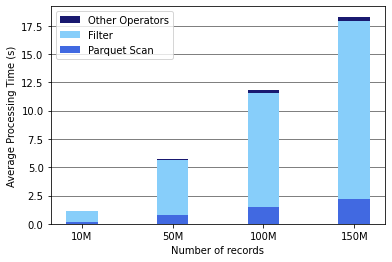
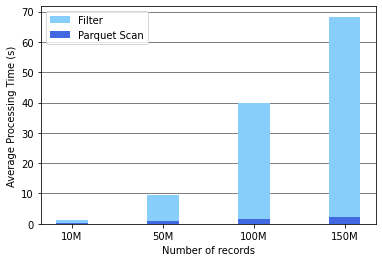
Updated readmes

diff --git a/usecases/regex-filter/README.md b/usecases/regex-filter/README.md
@@ -1,26 +1,28 @@
 # Usecase: Regular Expression Filter
 
-In this usecase, the evaluation of a regular expression filter is offloaded to FPGA.
+In this usecase, the evaluation of a regular expression filter is offloaded to an FPGA on an AWS F1 instance.
 
 > :warning: This usecase is currently a work in progress. Content may be incomplete and/or subject to change.
 
 ## Background
 
 A SQL query, which includes a regular expression, is run on the 
-[Chicago Taxi Dataset](https://data.cityofchicago.org/Transportation/Taxi-Trips/wrvz-psew). 
+[Chicago taxi dataset](https://data.cityofchicago.org/Transportation/Taxi-Trips/wrvz-psew). 
 The dataset is first converted to parquet such that it can be efficiently read by Dremio. 
 The dataset contains 23 columns, but in this usecase we are only interested in the `Trip_Seconds` 
 and `Company` columns.
 
-TODO: Check these types
-
-`Trip_Seconds` contains the duration of a given taxi trip in 32-bit integer values. The `Company` column 
+`Trip_Seconds` contains the duration of a given taxi trip in integer values. The `Company` column 
 contains the name of the company that carried out the trip as an UTF8 string.
 
-Lets say we are interested in knowing the total duration of all taxi trips as carried out by a company 
-whose name consists of two separate words. In that case we could construct the following SQL query:
+Let's say we are interested in knowing the total duration of all taxi trips as carried out by a company 
+whose name matches a specific regular expression. In that case we could construct the following SQL query:
 
-    SELECT SUM(Trip_Seconds) FROM "taxi-trips.parquet" WHERE REGEXP_LIKE(Company, '\b[a-zA-Z]+\s[a-zA-Z]+\b')
+    SELECT SUM(Trip_Seconds) FROM "taxi-trips.parquet" WHERE REGEXP_LIKE(Company, 'YOUR REGEX')
+
+As an example, we consider the following regular expression
+
+    .*[tT][eE][rR][aA][tT][iI][dD][eE][ \t\n]+[dD][oO][lL][pP][hH][iI][nN][ \t\n]+([mM][eE])+[pP][oO][wW][eE][rR].*
 
 Letting the Sabot engine perform it's planning phases for this query, the operators of the physical plan are
 given by the figure below.
@@ -36,11 +38,80 @@ The filter operator is where this regular expression matching takes place. This 
             "\b[a-zA-Z]+\s[a-zA-Z]+\b"
         ],
         type = "BOOLEAN",
-        digest = "REGEXP_LIKE($1, '\b[a-zA-Z]+\s[a-zA-Z]+\b')"
+        digest = "REGEXP_LIKE($1, '.*[tT][eE][rR][aA][tT][iI][dD][eE][ \t\n]+[dD][oO][lL][pP][hH][iI][nN][ \t\n]+([mM][eE])+[pP][oO][wW][eE][rR].*')"
     }
+
+Such a regular expression filter is quite costly to evaluate on a CPU and can quickly become the bottleneck of the 
+evaluation of the entire query. This can be seen in the figure below, in which the average processing time of these
+operators is analyzed for the Chicago taxi dataset with a varying amount of records. Only the processing time of the
+filter and parquet scan operators is significant enough to show up in the figure.
 
 ![Vanilla Dremio](vanilla-dremio.png)
 
 ## Dremio Accelerated Setup
 
+In order to perform the evaluation of the filter on an FPGA, a rule is added to the new *FPGA Acceleration Planning* phase
+of the Sabot planner. This rule matches all filters in the physical plan and substitutes them by our Fletcher filter operator.
+All initialization parameters of this Fletcher operator can be obtained from the original filter, since all underlying data should
+be the same; the difference is in the way the filter is evaluated.
+
+    public class FletcherFilterPrule extends RelOptRule {
+      public static final RelOptRule INSTANCE = new FletcherFilterPrule();
+    
+      // Match on any filter prel
+      private FletcherFilterPrule() {
+        super(RelOptHelper.any(FilterPrel.class), "FletcherFilterPrule");
+      }
+    
+      @Override
+      public void onMatch(RelOptRuleCall call) {
+        final FilterPrel  filter = (FilterPrel) call.rel(0);
+        call.transformTo(new FletcherFilterPrel(
+          filter.getCluster(),
+          filter.getInput().getTraitSet(),
+          filter.getInput(),
+          filter.getCondition()
+        ));
+      }
+
+    }
+
+With this rule, it can be seen that the filter operator is substituted for the Fletcher filter operator at the end of 
+the *FPGA Acceleration Planning* phase.
+
+![Filter Operators](filter-operators.png)
+![Filter Operators](fpga-operators.png)
+
+In theory, an FPGA can process regular expression a lot faster than any CPU implementation. A naive comparison can be
+seen in the figure below. This figure does however not tell the complete story.
+
+![Filter Comparison](filter-comparison.png)
+
+The major difference is that FPGAs prefer to work on large record batches, minimizing the overhead related to setting up memory
+transfers and maximizing the time spent processing the data. On the other hand, big data frameworks tend to keep their
+record batches small such that processing can be parallelized easier when working on a cluster.
+
+In the case of Dremio, the default record batch size of a narrow batch (batches with less than 100 fields, such as in 
+our example) is set to 4 095 records. This batch size can be increased, but the maximum value is limited to 64 000 records.
+For now, this value is therefore increased manually to 64 000 records. 
+
+In a future version, the `FletcherFilterPrule` in the *FPGA Acceleration Planning* phase will schedule additional 
+operators in front of and after the Fletcher operator, which increase and decrease the record batch sizes respectively.
+In this way, the framework maintains its original scalability while at the same time enabling FPGA accelerators to process
+the record batches more efficiently.
+
 ## Results
+
+TODO: remark about AWS DMA
+
+![AWS DMA](dma.png)
+
+Setting the input batch size for the FPGA regex kernel to 64 000, the kernel processes the batch in 0.002001 seconds.
+Using a back-of-the-envelope calculation, it can be seen that in the case of 150M records there are approximately 2 344
+record batches. Therefore, the Fletcher filter operator should be able to process all batches in approximately 4.69 seconds,
+resulting in a 14x speedup as compared to the Dremio filter operator.
+
+Multiple efforts are being made to increase this speedup even further and as such this usecase is still a work in progress.
+These efforts are listed below.
+* Align input buffers to 64 bytes instead of 8 bytes to increase DMA write speed
+* Increase batch size for the Fletcher operator only instead of the entire pipeline

diff --git a/README.md b/README.md
@@ -2,7 +2,7 @@
 
 *Dremio Accelerated* is an extension of Dremio's Sabot engine which enables the transparent offloading of subqueries to FPGA's. The evaluation of these subqueries is facilitated by [Fletcher](https://github.com/abs-tudelft/fletcher), which decreases the time required to design and implement the required FPGA kernels.
 
-An additional *FPGA Acceleration Planning* phase is added to the Sabot engine, which facilitates rules to target nodes in the physical plan and substitute them by a *Fletcher operator*. This operator exposes it's underlying Arrow buffers to the FPGA and specifies the location to which te results should be written. These extensions can be seen in blue in the figure below.
+An additional *FPGA Acceleration Planning* phase is added to the Sabot engine, which facilitates rules to target nodes in the physical plan and substitute them by a *Fletcher operator*. This operator exposes it's underlying Arrow buffers to the FPGA and specifies the location to which the results should be written. These extensions can be seen in blue in the figure below.
 
 ![Sabot Extensions](graphics/Dremio_accelerated.png)
 
@@ -10,9 +10,10 @@ This illustration is in the context of an example in which an FPGA kernel can ev
 
 ## Example Usecases
 
-* [Regular expression filter](usecases/regex-filter/README.md) - evaluating a filter operation on FPGA
+* [Regular expression filter on taxi dataset](usecases/regex-filter/README.md) - evaluating a filter operation on FPGA
   
 Planned usecases:
+* [Regular expression filter on covid-19 tweets](usecases/regex-tweets/README.md) - (WIP) evaluating a regex filter on a dataset with larger strings
 * [Filter and StreamAggregate](usecases/filter-streamaggregate/README.md) - (WIP) offloading multiple operators
 * [TPC-H Query 6](usecases/tpch-query6/README.md) - (WIP) offloads hashaggregate, project, and filter operators
 

diff --git a/usecases/filter-streamaggregate/README.md b/usecases/filter-streamaggregate/README.md
@@ -1,3 +1,6 @@
 # Usecase: Filter and Streamaggregate
 
 TODO
+
+> :warning: This is a planned usecase and as such information may be very sparse or non-existent. Look at the other
+> usecases to get a more complete picture of how *Dremio Accelerated* works.

diff --git a/usecases/regex-tweets/README.md b/usecases/regex-tweets/README.md
@@ -1,4 +1,4 @@
-# Usecase: TPC-H Query 6
+# Usecase: Regular Expression Filter for Covid-19 Tweets
 
 TODO
 
